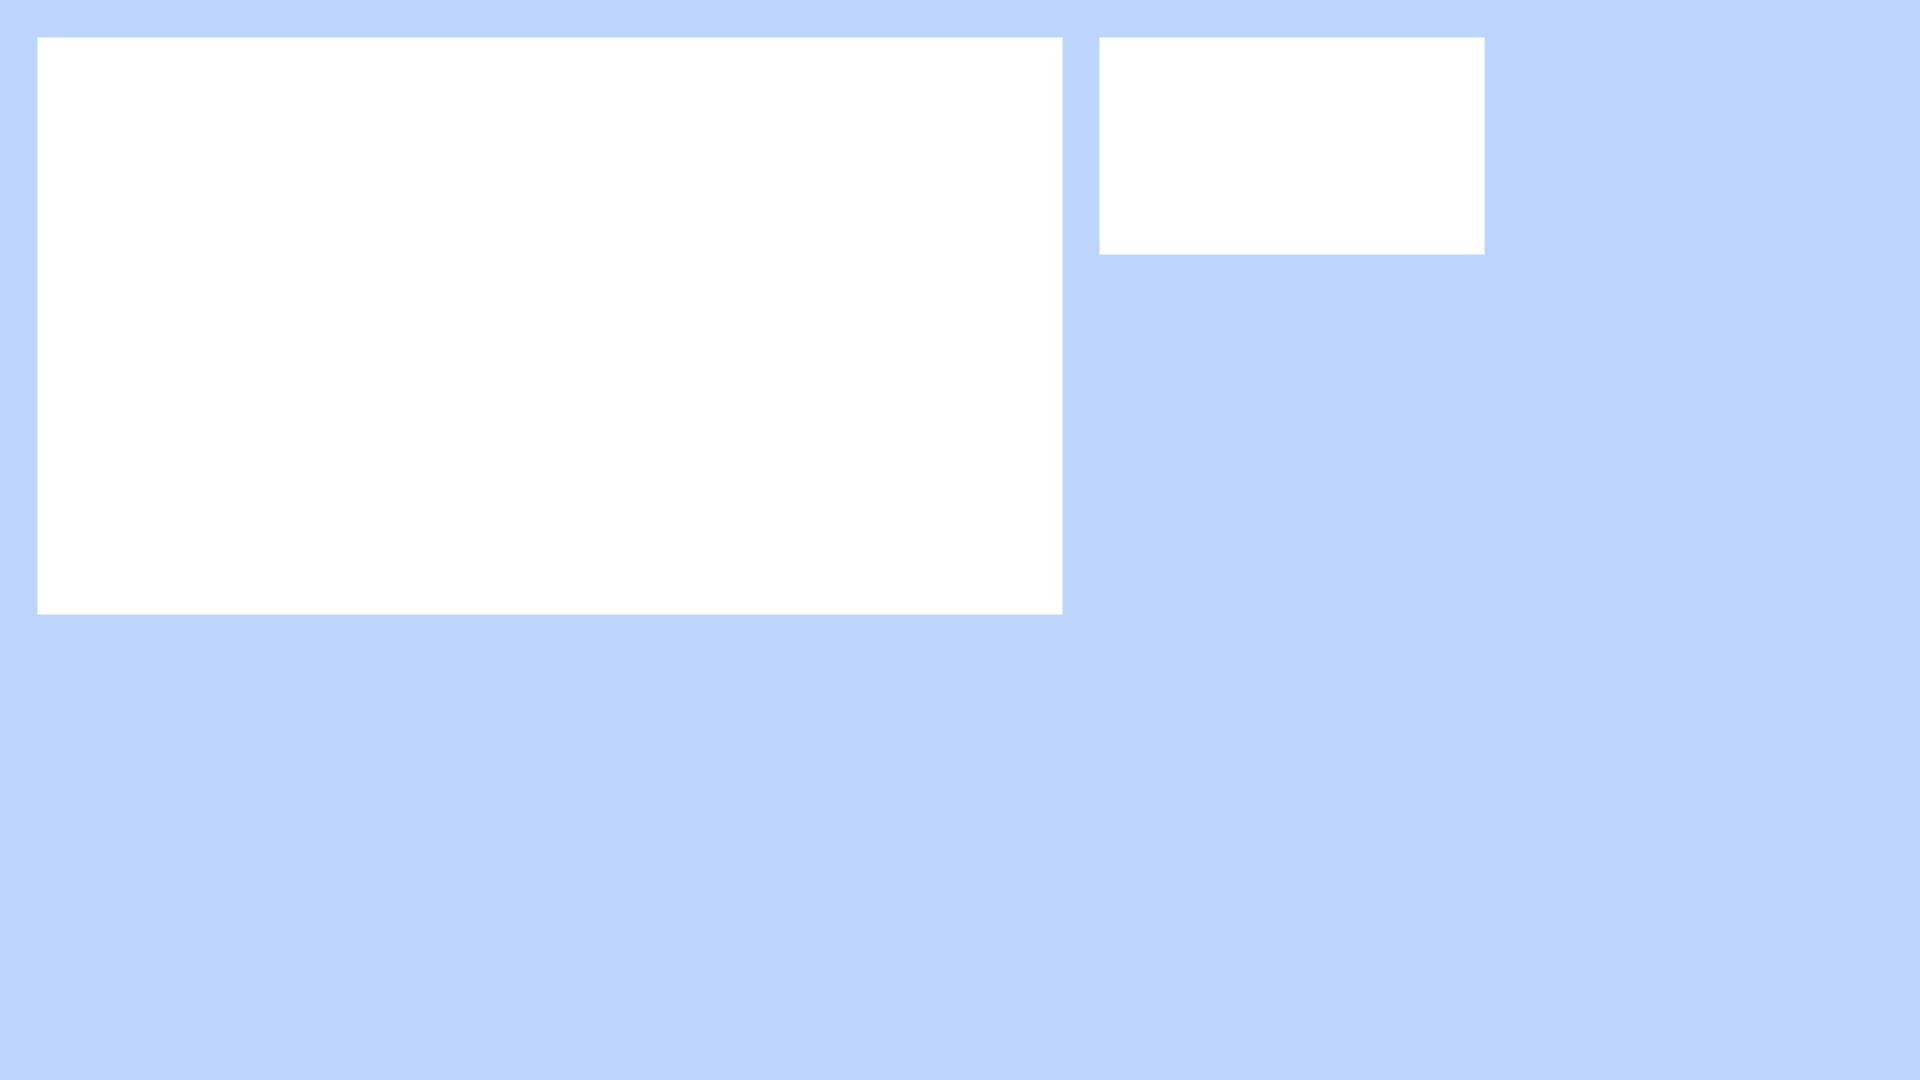
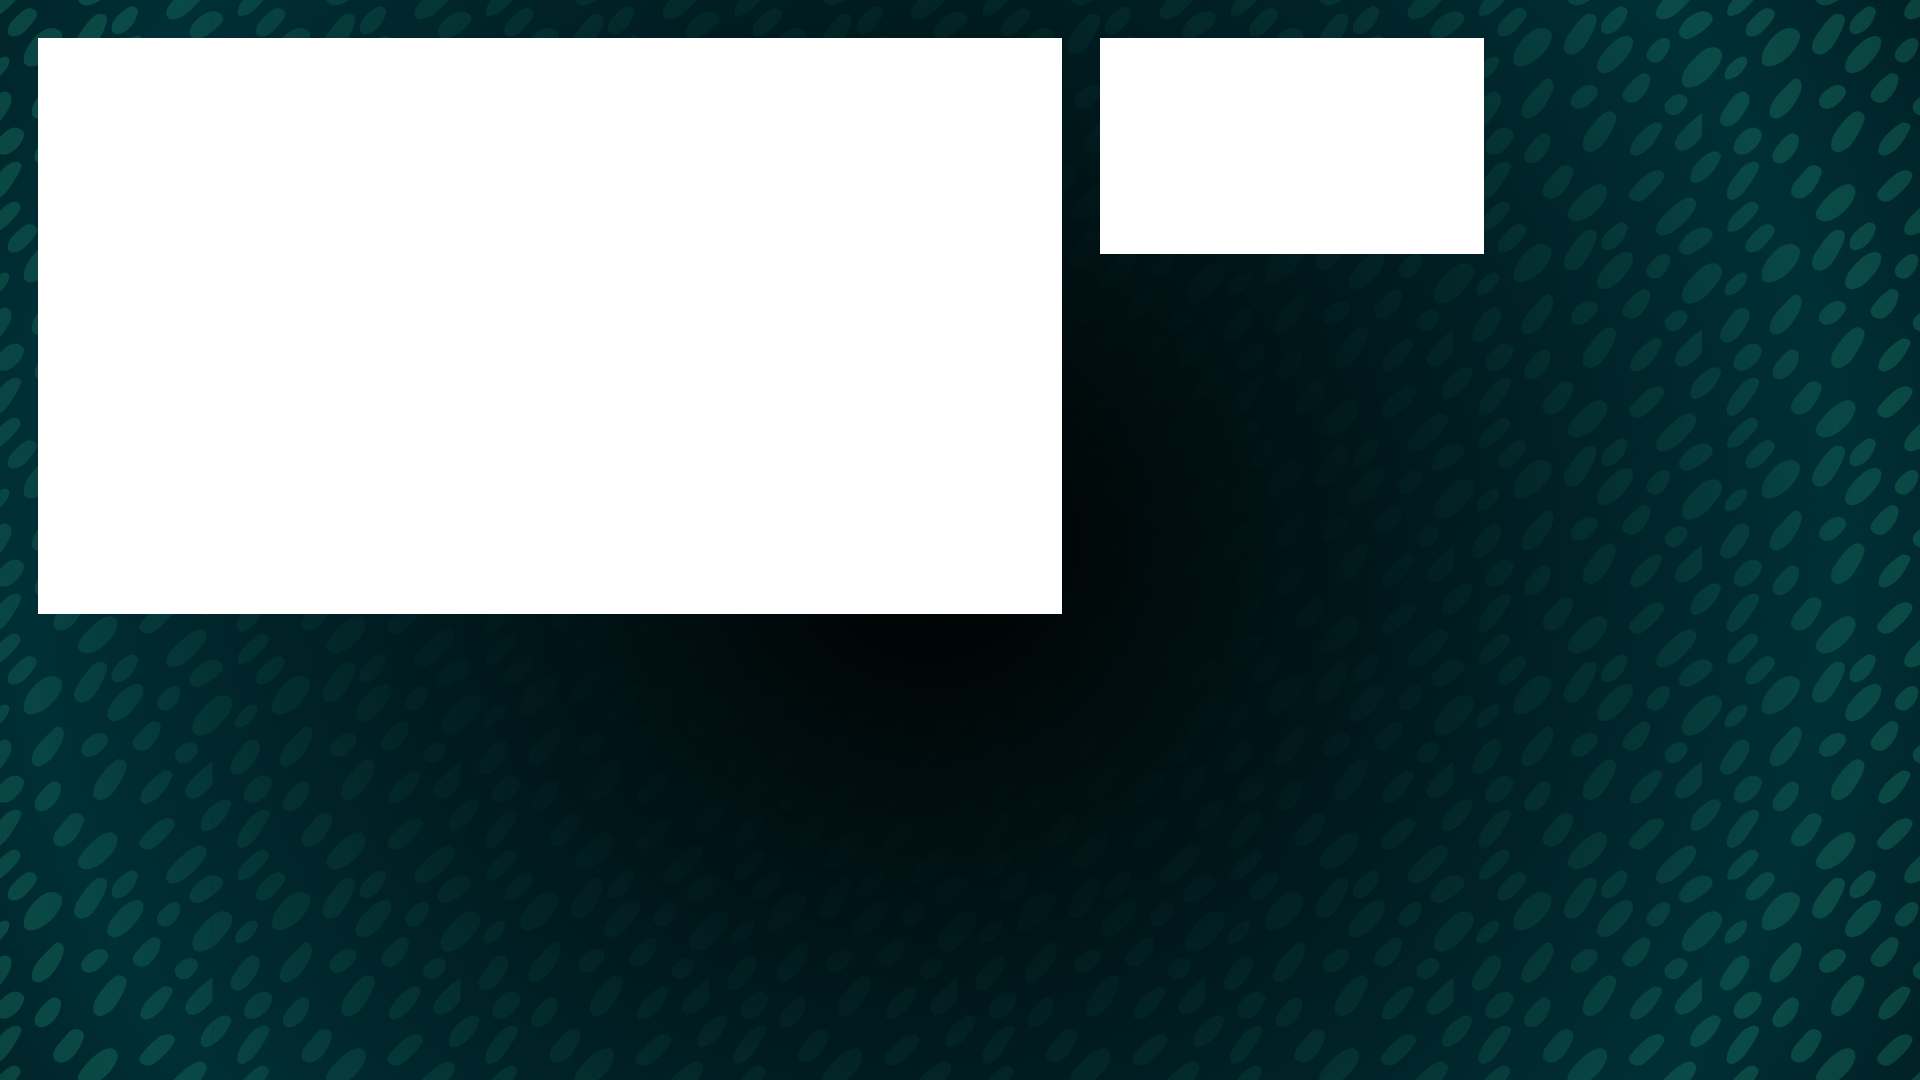
Added DashRando's design to the layout.

diff --git a/graphics/css/style.css b/graphics/css/style.css
@@ -1,3 +1,8 @@
+@font-face {
+    font-family: BebasKai;
+    src: url(../font/BebasKai.otf);
+}
+
 .large-player {
     width: 100%;
     height: 654px;
@@ -18,7 +23,9 @@
 .featured-player-details {
     width: 1024px;
     height: 50px;
-    background-color: black;
+    background: rgb(169,254,255);
+    background: linear-gradient(80deg, rgba(169,254,255,1) 0%, rgba(231,255,225,1) 100%);
+    color: #340085;
 }
 
 .twitch-logo {
@@ -43,9 +50,8 @@
     float: left;
     padding-right: 8px;
     padding-top: 8px;
-    font-size: 18pt;
+    font-size: 20pt;
     text-align: right;
-    font-family: "alarm clock", sans-serif;
 }
 
 .featured-player-details .player-name {
@@ -74,11 +80,11 @@
 body {
     width: 1920px;
     height: 1080px;
-    color: white;
+    color: #340085;
     margin: 0;
     padding: 0;
     background-color: transparent;
-    font-family: "Calibri", sans-serif;
+    font-family: BebasKai, sans-serif;
 }
 
 .background {
@@ -214,6 +220,7 @@ body {
 .player-afk {
     background-color: rgba(0,0,0,0);
     position: absolute;
+    color: white;
     top: 0;
     left: 0;
     width:100%;
@@ -240,9 +247,10 @@ body {
 .small-player-details {
     width: 384px;
     height: 50px;
-    color: white;
-    background-color: rgba(0,0,0,100);
+    color: #340085;
     overflow: hidden;
+    background: rgb(169,254,255);
+    background: linear-gradient(80deg, rgba(169,254,255,1) 0%, rgba(231,255,225,1) 100%);
 }
 
 .small-player-details.showing {
@@ -272,9 +280,25 @@ footer {
     bottom: 0;
     width: 100%;
     height: 60px;
-    background-color: black;
-    text-align: center;
+    background: rgb(169,254,255);
+    background: linear-gradient(80deg, rgba(169,254,255,1) 0%, rgba(231,255,225,1) 100%);
     font-size: 42px;
+    color: #340085;
+}
+
+footer > img {
+    width: 300px;
+    margin-top: -285px;
+    float: left;
+}
+
+footer > span {
+    width: 790px;
+    text-align: center;
+    display: inline-block;
+    float: left;
+    height: 60px;
+    padding: 5px;
 }
 
 @keyframes slide_down {

diff --git a/dashboard/js/general-settings.js b/dashboard/js/general-settings.js
@@ -22,7 +22,7 @@ window.addEventListener('DOMContentLoaded', (event) => {
     const resolutions = {
         "featured-player": {
             "height": "1024",
-            "width": "516"
+            "width": "576"
         },
         "small-player": {
             "height": "384",
@@ -40,23 +40,23 @@ window.addEventListener('DOMContentLoaded', (event) => {
             "y": "38"
         },
         "small-player-2": {
-            "x": "1330",
+            "x": "1498",
             "y": "38"
         },
         "small-player-3": {
             "x": "1100",
-            "y": "422"
+            "y": "318"
         },
         "small-player-4": {
-            "x": "1330",
-            "y": "422"
+            "x": "1498",
+            "y": "318"
         },
         "small-player-5": {
             "x": "1100",
             "y": "598"
         },
         "small-player-6": {
-            "x": "1330",
+            "x": "1498",
             "y": "598"
         },
     }

diff --git a/graphics/unmetal-unleashed.html b/graphics/unmetal-unleashed.html
@@ -30,7 +30,7 @@
                 <div class="player-open-slot"  id="player-open-slot-featured"></div>
             </div>
             <div class="featured-player-details">
-                <img class="twitch-logo" alt="Twitch Logo" src="/bundles/mgsr-unmetal-unleashed/graphics/img/TwitchGlitchWhite.svg" />
+                <img class="twitch-logo" alt="Twitch Logo" src="/bundles/mgsr-unmetal-unleashed/graphics/img/TwitchGlitch.svg" />
                 <span id="player-name-featured" class="player-name"></span>
                 <span id="player-pb-featured" class="player-pb"></span>
             </div>
@@ -45,7 +45,9 @@
 </div>
 
 <footer>
-    Follow ApacheSmash on Twitter
+    <span>metalgearspeedrunners.com</span>
+    <img src="/bundles/mgsr-unmetal-unleashed/graphics/img/jesse_fox_cutout.png">
+    <span>donation link</span>
 </footer>
     <script src="js/main.js"></script>
 </body>

diff --git a/graphics/js/main.js b/graphics/js/main.js
@@ -227,7 +227,7 @@ window.addEventListener('DOMContentLoaded', (event) => {
     function createTwitchLogo(id) {
         const img = document.createElement("img");
         img.setAttribute("class", "twitch-logo");
-        img.setAttribute("src", "/bundles/mgsr-unmetal-unleashed/graphics/img/TwitchGlitchWhite.svg");
+        img.setAttribute("src", "/bundles/mgsr-unmetal-unleashed/graphics/img/TwitchGlitch.svg");
         img.setAttribute("id", id);
         return img;
     }
